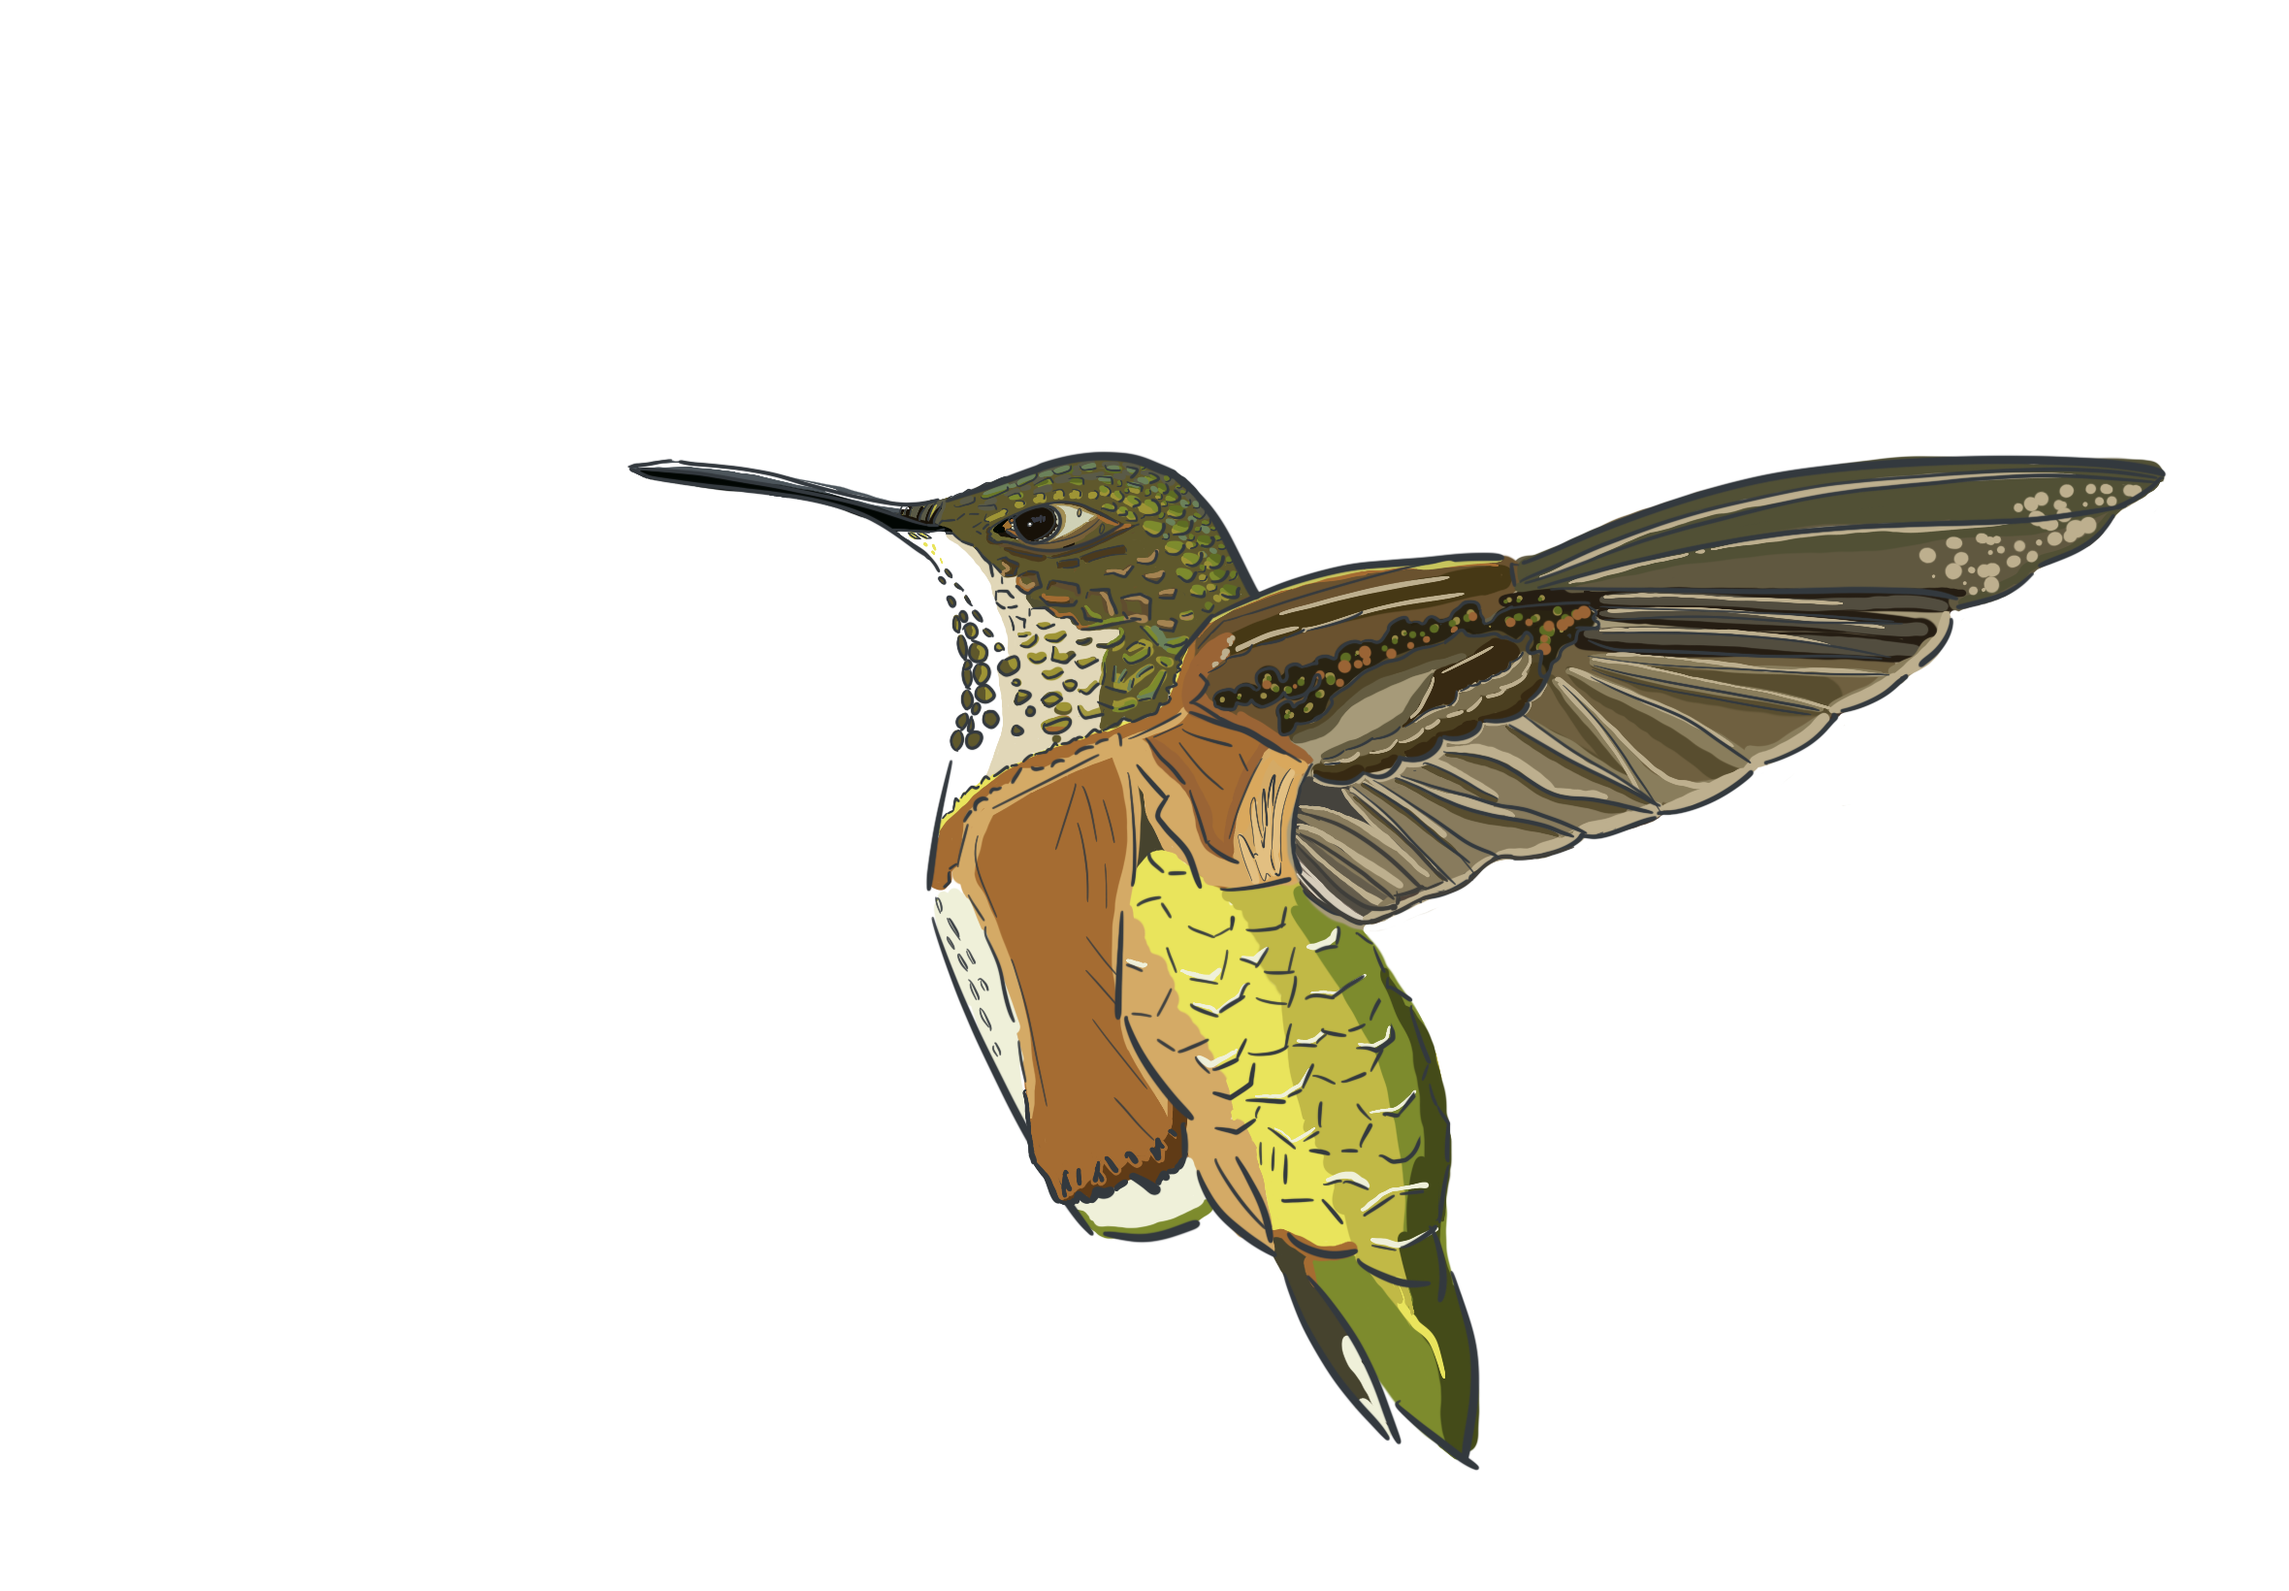
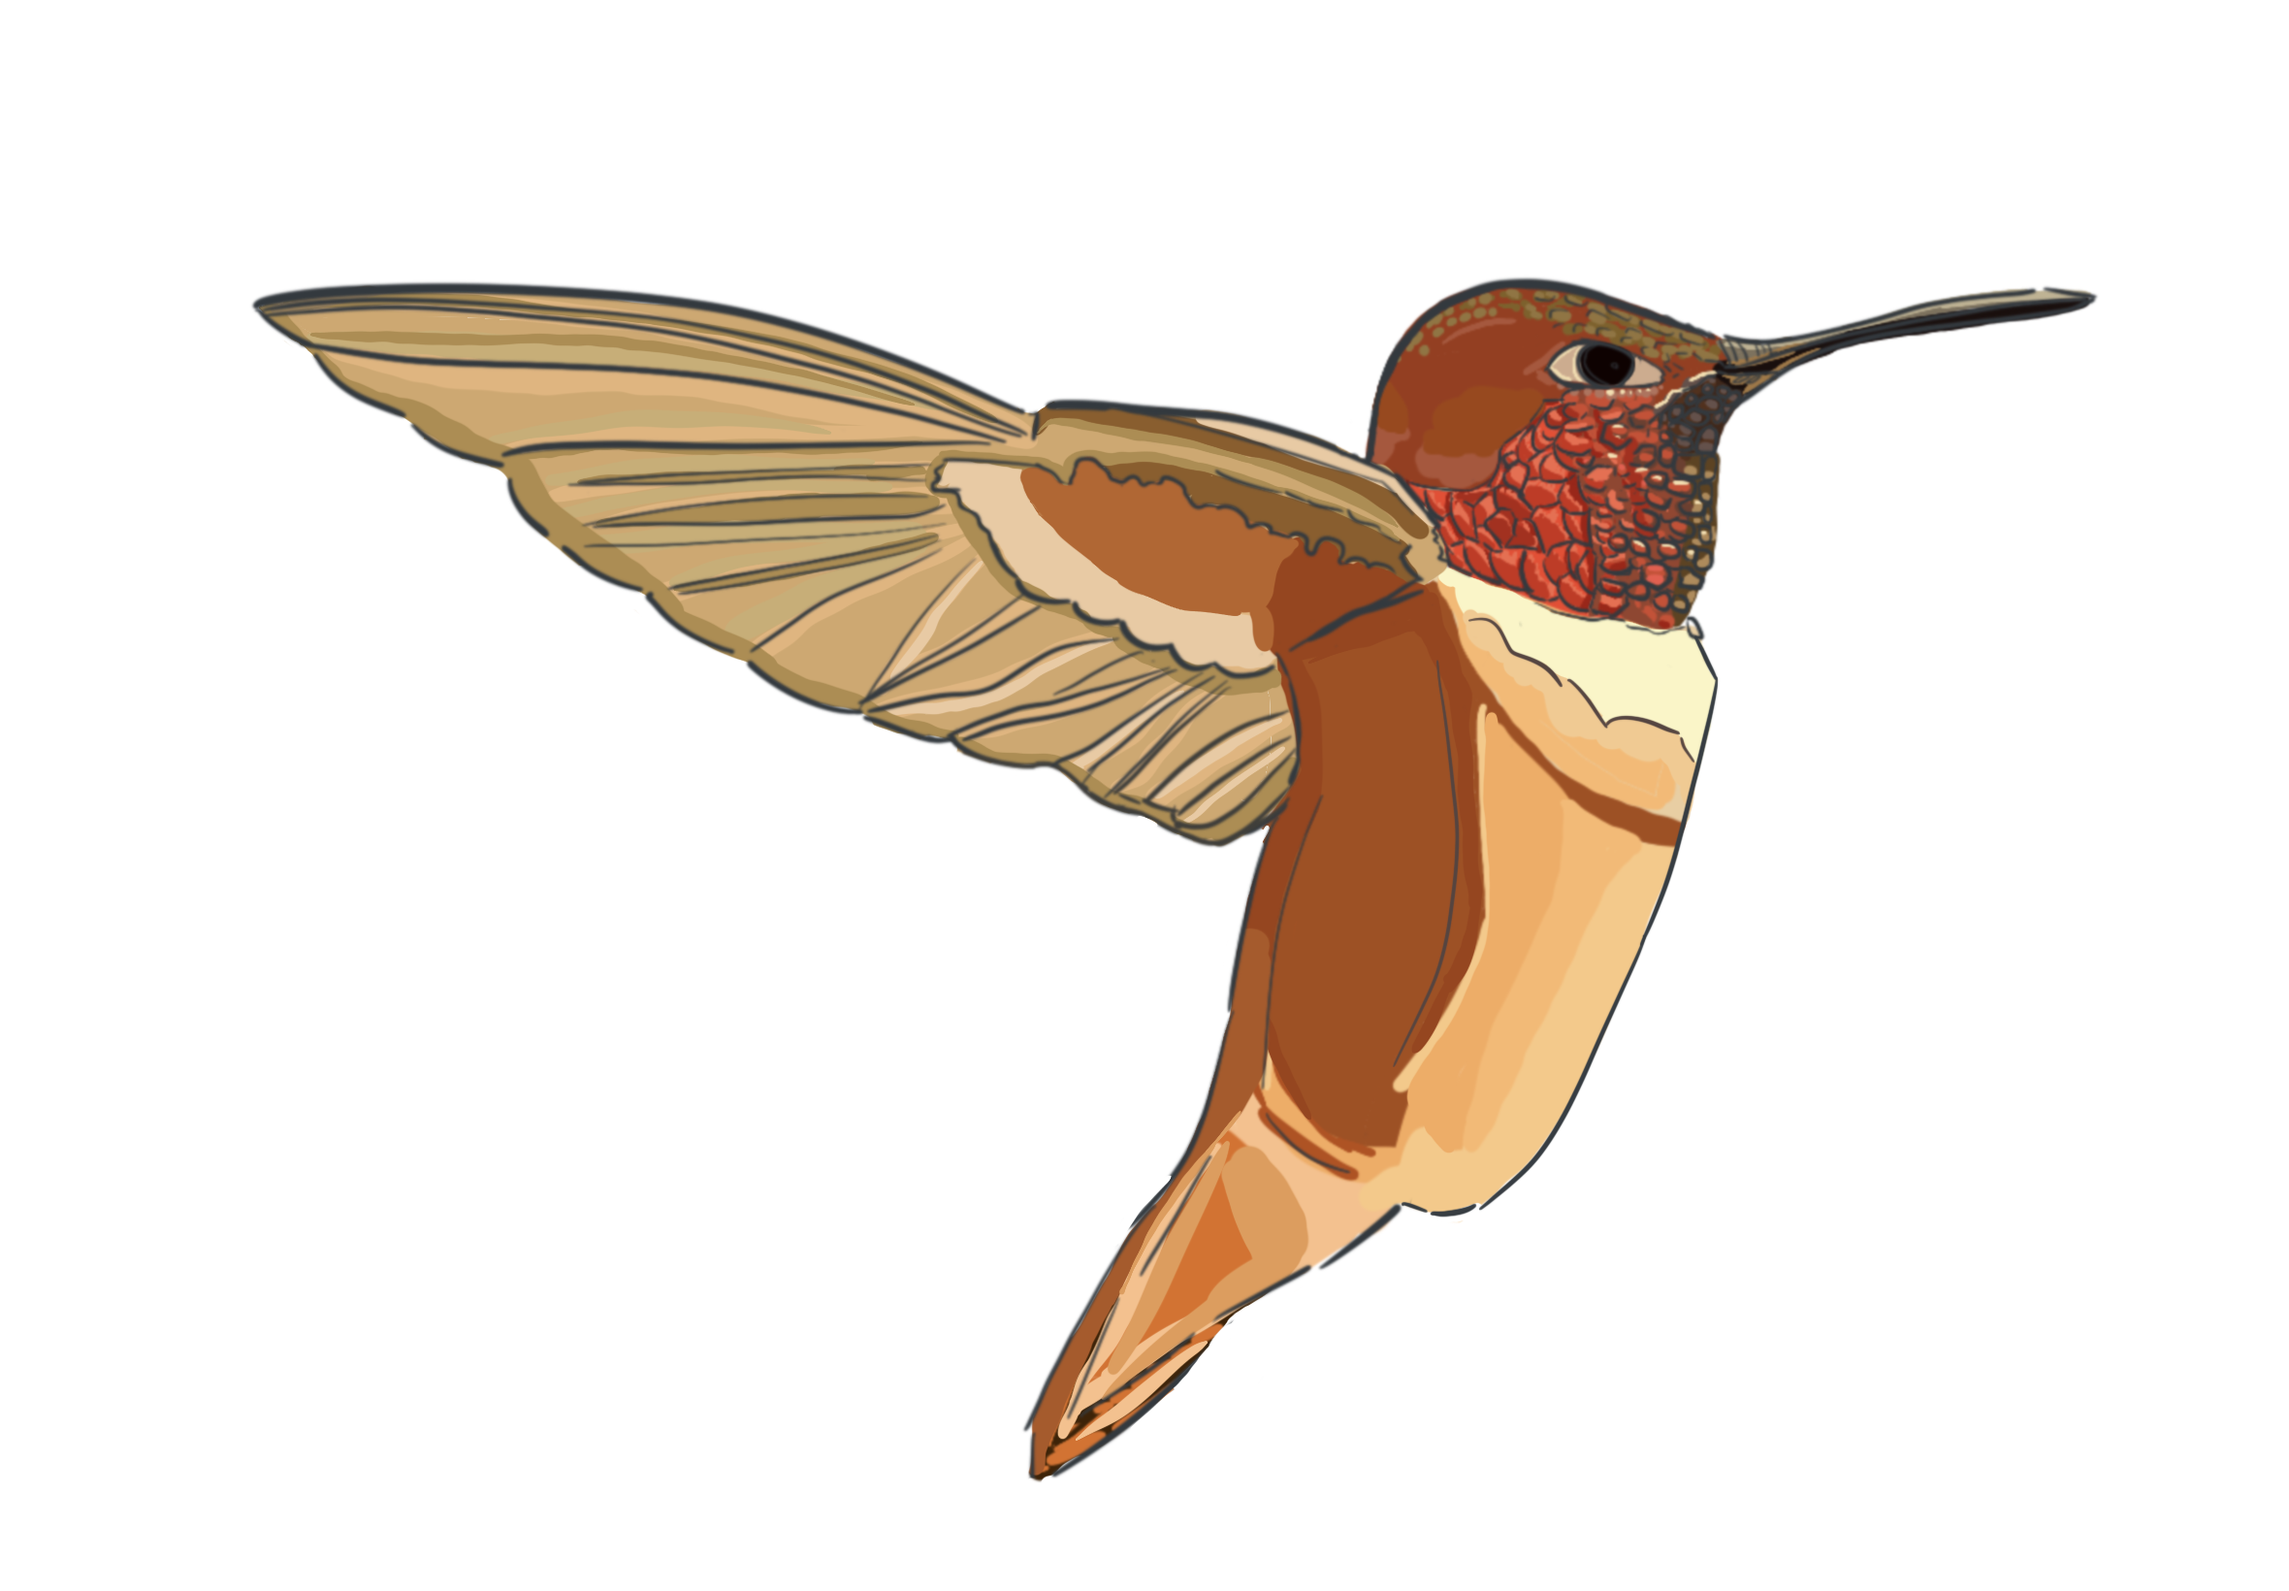
Update hummingbird card: new cover art, night bg, light text
- Replace cover image with new hummingbird drawing
- Switch tile background to night (#23304a) with paper ink (#f6f0e2)
- Scale cover image to 92%, center on mobile

Changed region(s): [[0.0928, 0.1555, 0.9589, 0.9329]]

diff --git a/src/lib/stories/hummingbird.js b/src/lib/stories/hummingbird.js
@@ -5,8 +5,8 @@ export const hummingbird = {
 		'A Rufous Hummingbird weighing less than a nickel was tracked flying 5,821 km from Alaska toward Mexico — a new record for the smallest migrating bird ever measured.',
 	date: '2026-10-26',
 	tags: ['migration', 'birds', 'distance'],
-	color: '#f6f0e2',
-	ink: '#22211f',
+	color: '#23304a',
+	ink: '#f6f0e2',
 	cover: '/art/hummingbird/cover.png',
 	status: 'draft',
 	featured: false

diff --git a/src/lib/components/StoryTile.svelte b/src/lib/components/StoryTile.svelte
@@ -67,6 +67,7 @@
 		height: 100%;
 		object-fit: cover;
 		object-position: 60% 35%;
+		transform: scale(0.92);
 		pointer-events: none;
 	}
 
@@ -139,5 +140,12 @@
 	.tile-date {
 		font-size: 0.9375rem;
 		font-weight: 500;
+	}
+
+	@media (max-width: 640px) {
+		.tile-cover {
+			transform: scale(0.92);
+			object-position: center center;
+		}
 	}
 </style>
